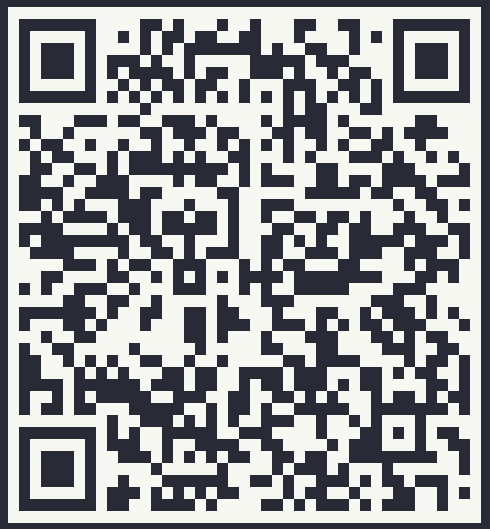
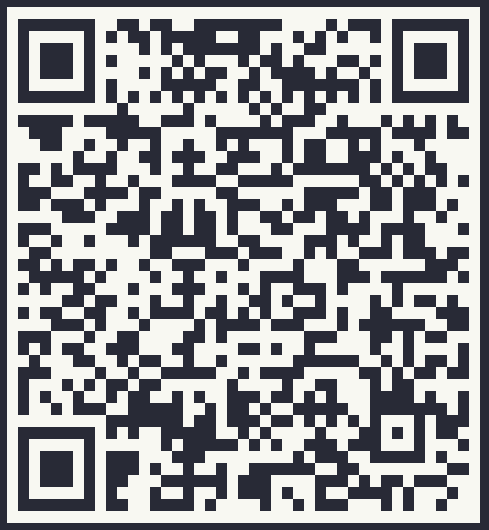
Updated

diff --git a/README.md b/README.md
@@ -1,4 +1,4 @@
 # goit--react-native-hw
 
 🤖 Open this link on your Android devices (or scan the QR code in qr.png) to install the app:
-https://expo.dev/accounts/phoenix7778/projects/goit-react-native-hw/builds/98b0abdd-70fb-4751-bcae-08ccc0b63f5f
+https://expo.dev/accounts/phoenix7778/projects/goit-react-native-hw/builds/2e70a05d-a789-4a70-9c5e-a121960b9265
